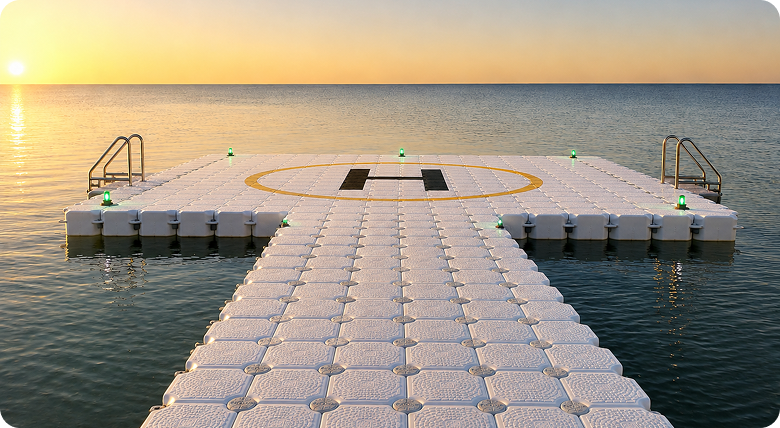
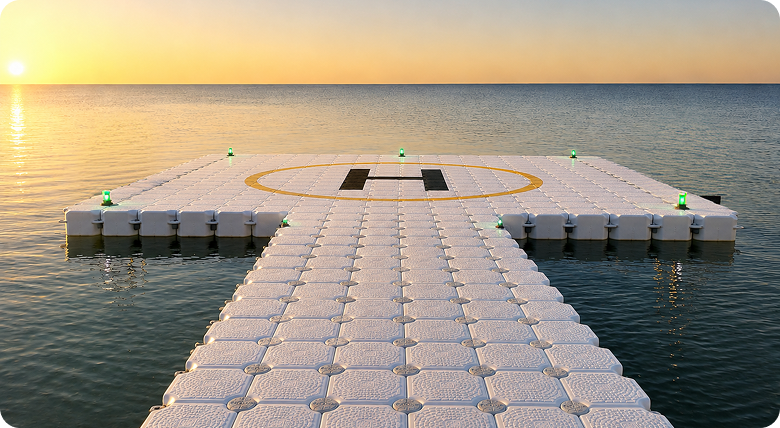
Portable helipad and vertipads

Changed region(s): [[0.8308, 0.2734, 0.9538, 0.486], [0.0923, 0.3037, 0.2154, 0.486]]

diff --git a/app/modular-floating-solutions/page.tsx b/app/modular-floating-solutions/page.tsx
@@ -33,28 +33,28 @@ const ModularFloatingSolutions = () => {
                 features={[{
                     icon: "/22.png",
                     title: "Modular & Scalable Design",
-                    desc: "Flexible interlocking systems that adapt to different site sizes and operational requirements.",
+                    desc: "Interlocking units allow flexible configurations tailored to different project sizes and requirements.",
                 },
                 {
                     icon: "/333.png",
-                    title: "High Load-Bearing Strength",
-                    desc: "Built to support heavy helicopter operations with structural stability.",
+                    title: "High Load Stability",
+                    desc: "Designed for balanced load distribution, ensuring safe and stable performance on water.",
                 },
                 {
                     icon: "/444.png",
-                    title: "Anti-Slip & Weather Resistant",
-                    desc: "Durable surface ensures safe operations in all environmental conditions.",
+                    title: "Durable Weather Protection",
+                    desc: "Built with high-quality materials to withstand harsh marine and environmental conditions.",
                 },
                 {
                     icon: "/555.png",
-                    title: "Rapid Installation",
-                    desc: "Quick assembly and dismantling for time-critical deployments.",
+                    title: "Quick Installation",
+                    desc: "Simple assembly process enables fast deployment with minimal equipment and manpower.",
                 },
                 ]} />
             <SplitSectionHelideck
                 sections={[
                     {
-                        title: "Designed for Demanding Environments",
+                        title: "Designed for Demanding Water Environments",
                         image: "/mb.png",
                         imageAlt: "Engineering Precision",
                         paragraphs: [
@@ -111,6 +111,7 @@ const ModularFloatingSolutions = () => {
                 assistanceDescription="Our lighting specialists are ready to help you select the perfect obstruction lighting solution for your operational needs."
                 contactPhone="+44 191 640 75 03"
                 contactEmail="info@crantonelectric.com"
+                image="/faqs-ps.png"
             />
             <CTASection heading="Need a Portable Helipad Solution?" description={"Tell us about your project requirements and our experts will help you design the right solution for your operational needs."} />
         </div>

diff --git a/components/faqs.tsx b/components/faqs.tsx
@@ -59,7 +59,7 @@ export default function Faqs({
     assistanceDescription = "Have questions about our IT services or need immediate assistance?",
     contactPhone = "+971 2 813 7300",
     contactEmail = "info@acsllc.ae",
-    image = "/faqs-left.png",
+    image = "/faqs-ps.png",
 }: FaqsProps) {
     const [openIndex, setOpenIndex] = useState<number | null>(0);
 
